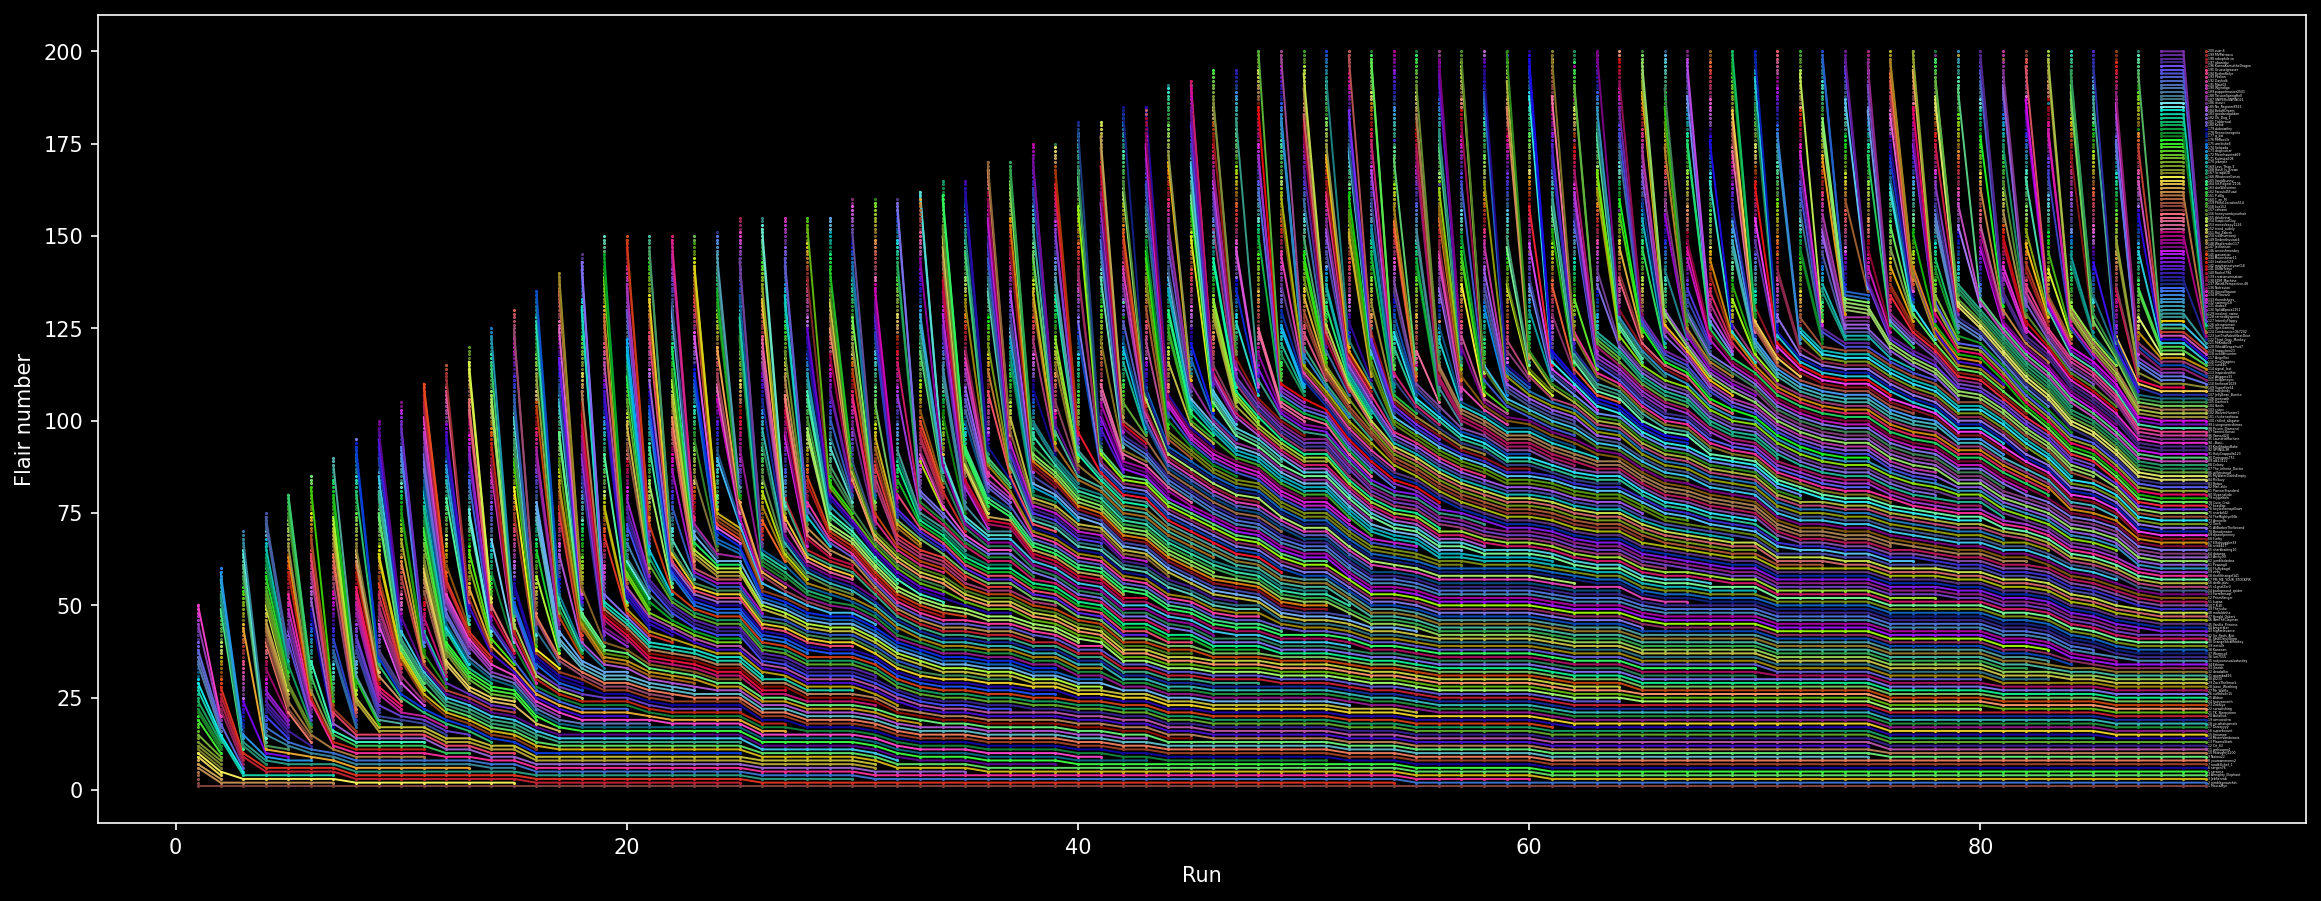
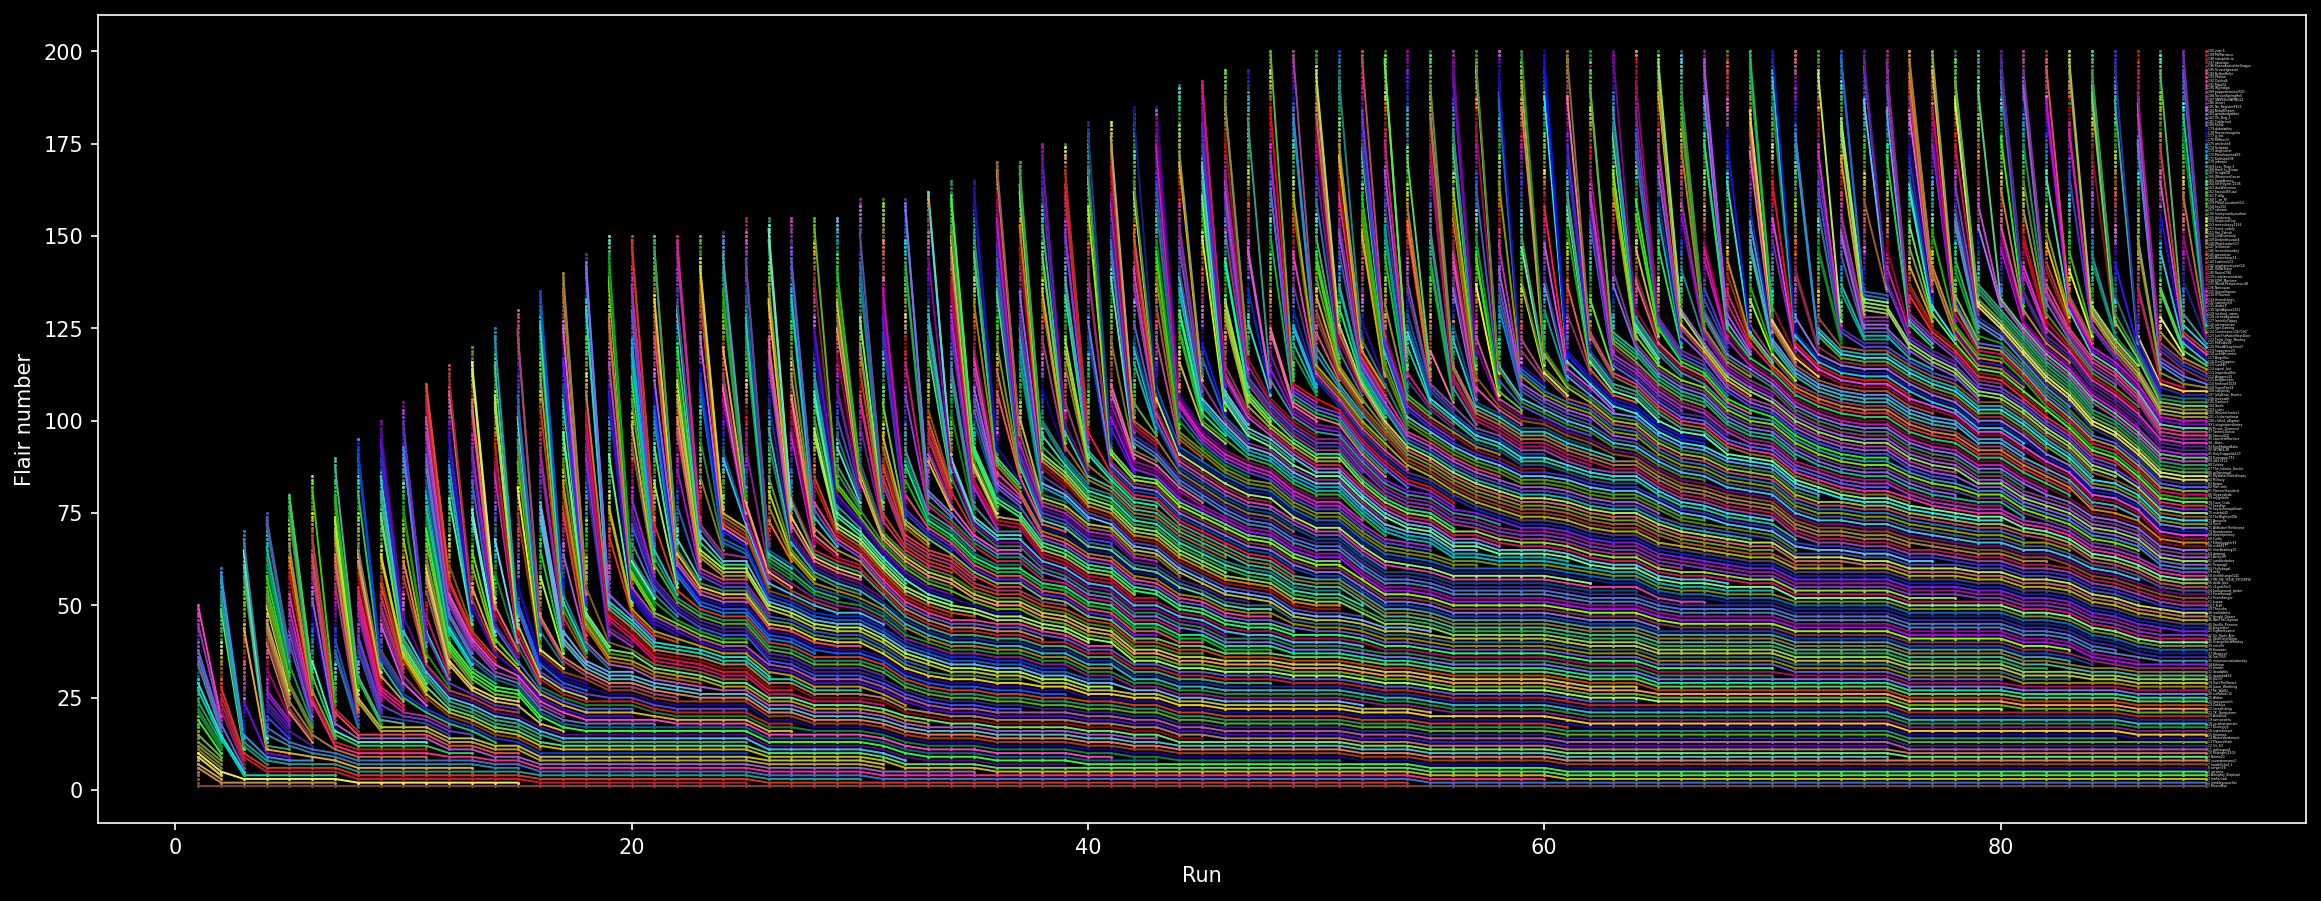
small details fixed

diff --git a/website/noruns/index.html b/website/noruns/index.html
@@ -45,7 +45,7 @@
         Week 36: <a href="https://www.reddit.com/r/TheConfluence/comments/jriz14/a_change_to_protocol_with_regards_to_the_runs/">Change of Plans</a><br><br>
         Week 42: <a href="https://www.reddit.com/r/TheConfluence/comments/kgpklu/christmas_reprieve_no_run_this_wednesday/">The Christmas Reprieve</a><br><br>
         Week 55: <a href="https://www.reddit.com/r/TheConfluence/comments/mht18v/apologies_for_the_delay_and_thank_you_to_elephant/">Busy Times</a><br><br>
-        Week 65: <a href="https://www.reddit.com/r/TheConfluence/comments/nqj3gk/update_a_delay_to_the_weekly_run/">A Small Delay</a>
+        Week 65: <a href="https://www.reddit.com/r/TheConfluence/comments/nqj3gk/update_a_delay_to_the_weekly_run/">A Small Delay</a><br><br>
         Week 95: <a href="https://www.reddit.com/r/TheConfluence/comments/rxbf5y/the_89th_run_06012022_hello_new_friends_and/">New Year's skip</a>
     </p>
 

diff --git a/website/allgraph/allgraphfix.py b/website/allgraph/allgraphfix.py
@@ -42,7 +42,7 @@ def separate(array):
             start_new = True
     return [ans, starting]
 
-brokenWeeks = (63, 53, 40, 34, 10 ,4)
+brokenWeeks = (93, 63, 53, 40, 34, 10 ,4)
 for row in mega:
     for wk in brokenWeeks:
         row.pop(wk+1)

diff --git a/website/allgraph/allgraphvariation.py b/website/allgraph/allgraphvariation.py
@@ -41,7 +41,7 @@ def separate(array):
             start_new = True
     return [ans, starting]
 
-brokenWeeks = (63, 53, 40, 34, 10 ,4)
+brokenWeeks = (93, 63, 53, 40, 34, 10 ,4)
 for row in mega:
     for wk in brokenWeeks:
         row.pop(wk+1)
